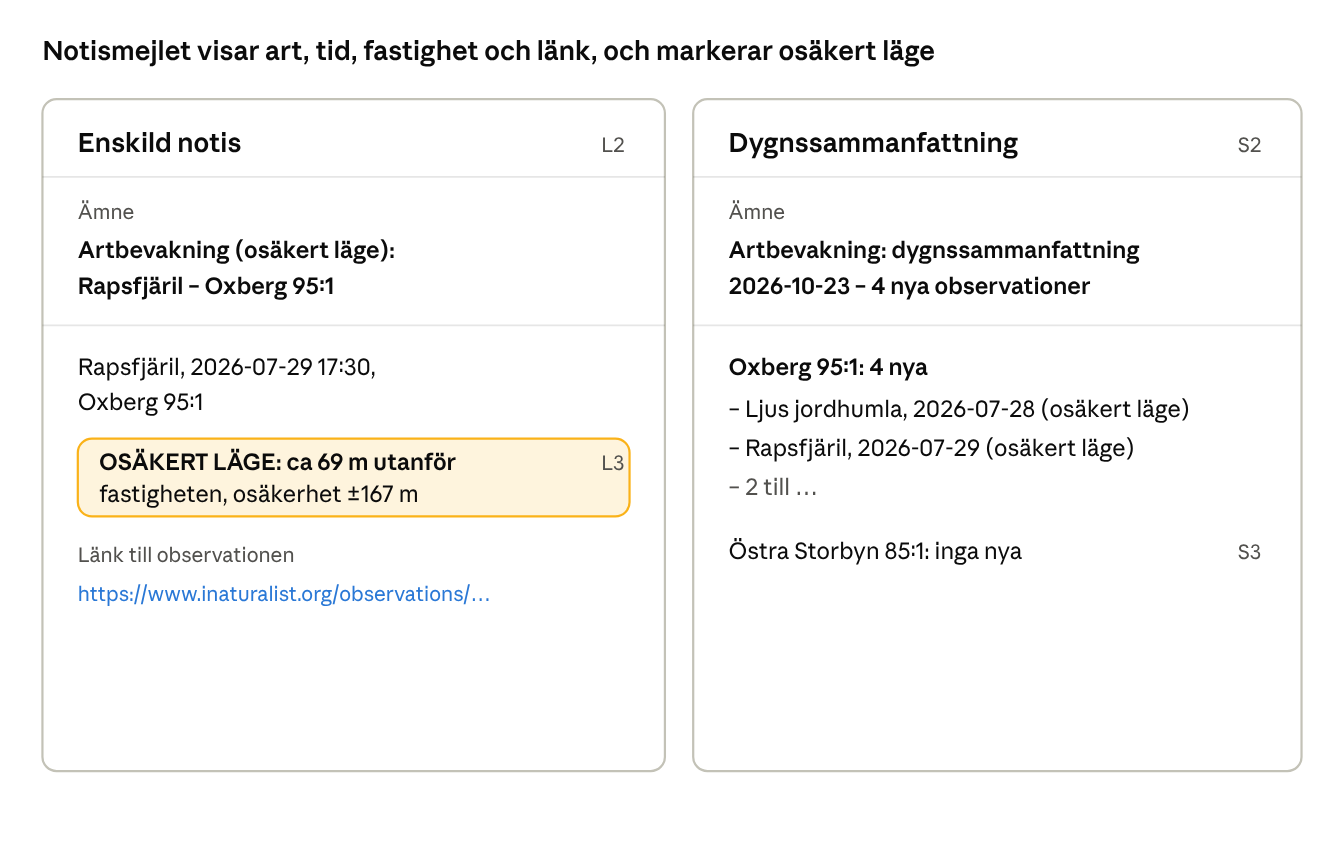
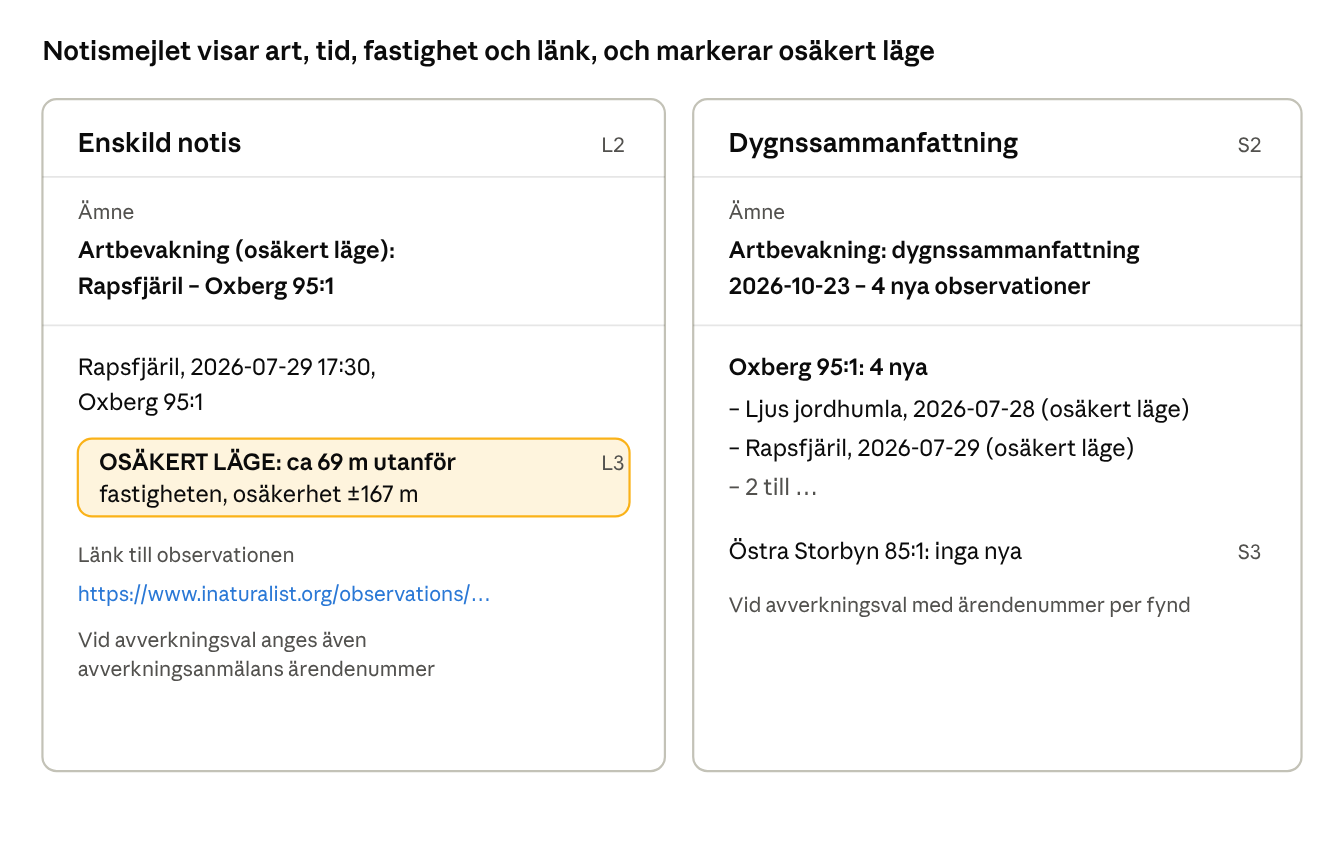
Lägg till erbjudande och förstagångsrabatt (B18–B21, A8–A10) och uppdatera skärmbilder

Changed region(s): [[0.0625, 0.7393, 0.3125, 0.8009], [0.5312, 0.7085, 0.875, 0.7393]]

diff --git a/artlarm/docs/PRD.md b/artlarm/docs/PRD.md
@@ -145,6 +145,9 @@ En administratör hanterar rabattkoder och grundpris; kundens sida av rabattkode
 | A5 | Administratören ser en lista över alla rabattkoder med rabatt, nuvarande grundpris och historik över prisändringar (förslag). |
 | A6 | Vanliga kunder ska inte kunna nå administrationen, varken via gränssnittet eller API:t. |
 | A7 | Administratörer har skrivskyddad insäkt i en kunds bevakningar och notiser, bara i samband med ett supportärende, och varje uppslag loggas (vem, vad, när). De kan inte ändra kundens bevakningar eller se lösenord. Integritetspolicyn anger insäkten. |
+| A8 | En administratör ska kunna skapa, ändra och avsluta ett erbjudande (namn, procent, start och slut). Ett pågående erbjudande kan avslutas i förtid men inte ändras bakåt, och redan gjorda köp påverkas inte. Före aktivering visas en bekräftelse med procent och tid, och ändringen loggas (A1). |
+| A9 | En administratör ska kunna slå på och av förstagångsrabatten och ändra procenten. Ändringen gäller nya köp och loggas. |
+| A10 | Administratören ser en lista över erbjudanden (kommande, pågående och avslutade) och förstagångsrabattens nuvarande läge, med historik (vem, vad, när) och antal köp som fick varje rabatt (förslag). |
 
 ### 5.8 Vilka observationer man får notiser om
 
@@ -197,6 +200,10 @@ Kunden betalar 2 kr per hektar och dag för bevakad yta, i förskott, och priset
 | B15 | Blir totalen 0 kr (rabatt 100 %) aktiveras bevakningarna utan betalning hos Stripe (förslag). |
 | B16 | Ytan avrundas uppåt per bevakning, vid avverkningsval per rad, till närmaste 0,1 ha (aldrig nedåt) och priset räknas exakt i öre. Minsta belopp per köp är 200 kr, räknat på varukorgens fullpris före rabatt och exklusive moms; är fullpriset lägre debiteras 200 kr. |
 | B17 | Priset låses när kunden går till kassan. Varukorgen sparas 7 dagar; öppnas kassan igen räknas priset om. En betalning gäller hela varukorgen: antingen aktiveras alla bevakningar eller ingen. En misslyckad betalning lämnar varukorgen kvar. |
+| B18 | Ett tidsbegränsat erbjudande är en procentuell rabatt som gäller alla kunder automatiskt, utan kod, på hela varukorgen (alla rader, även kompletteringar och förlängningar). Det har namn, rabatt i procent (1–99), startdatum och slutdatum med klockslag i svensk tid. Vilket erbjudande som gäller avgörs när priset låses vid kassan (B17); en betalning som slutförs efter erbjudandets slut behåller rabatten om kassan öppnades under erbjudandet (kassans giltighet högst 24 timmar, förslag). Högst ett erbjudande får vara aktivt åt gången. |
+| B19 | Förstagångsrabatten är en procentuell rabatt (1–99) på ett organisationsnummers första genomförda köp. Den ges automatiskt i kassan och kan slås på och av, och procenten kan ändras, av en administratör. Ett köp räknas som första när betalningen genomförts; ett köp på 0 kr räknas inte. Rabatten följer organisationsnumret (B10) så att den inte tas flera gånger genom att skapa nya konton; eftersom numret bara formatkontrolleras i version 1 är skyddet begränsat. |
+| B20 | Ett köp får en enda rabatt: den som ger lägst pris av erbjudandet, förstagångsrabatten och rabattkoden. Rabatter kombineras inte (jfr B14). Anger kunden en rabattkod som ger mindre rabatt än den som redan gäller visas ett meddelande och den bättre rabatten behålls. |
+| B21 | Gällande erbjudande (namn, procent och slutdatum) visas på sidan Ny bevakning och i varukorgen, och den rabatt som används visas på en egen rad med belopp före moms och nytt totalbelopp. Rabattens namn och procent sparas på köpet och skrivs på fakturan och kvittot (B7, B14). Rabatten räknas på varukorgens belopp före moms; beloppstaket (B11) och minsta beloppet (B16) räknas på fullpriset före rabatt. |
 
 **Räkneexempel (förslag på beräkning, belopp utan moms):**
 
@@ -309,6 +316,7 @@ Kraven "så snart" (L1) och daglig sammanfattning kl 09:00 (S2) blir mätbara me
 | B17, H7, D11, A7 | En misslyckad betalning aktiverar ingen bevakning och lämnar varukorgen kvar. En utgången bevakning kan inte tas bort och döljs efter 12 månader. Ett källavbrott över 24 timmar ger ett mejl om försenade notiser. Ett administratörsuppslag av en kunds bevakning loggas. |
 | D12–D15 | Med ett kommando startar hela tjänsten lokalt, och ett simulerat köp av en bevakning ger en aktiv bevakning, en faktura och ett mejl i mejlfångaren. En misslyckad simulerad betalning aktiverar ingenting. Skarpa Stripe-nycklar tillsammans med simulerad betalning stoppar starten. |
 | P17, P18 | Med två avverkningsanmälningar med olika perioder ger ett fynd inom den ena radens yta men utanför dess period ingen notis, och ett fynd inom en annan rads period ger notis med rätt ärendenummer. Priset och fakturan har en rad per anmälan, även när ytorna överlappar. En utgången rad bevakas inte längre medan övriga rader fortsätter, och bevakningen visas som delvis utgången. |
+| B18–B21, A8–A10 | Med ett erbjudande på 20 % till ett visst klockslag får ett köp i kassan före klockslaget 20 % rabatt och ett köp efter det ingen. En kassa som öppnats före sluttiden behåller rabatten vid betalning efter sluttiden, inom kassans giltighet. En kund med ett nytt organisationsnummer får förstagångsrabatten på sitt första betalda köp men inte på det andra. Med erbjudande 20 %, förstagångsrabatt 30 % och rabattkod 10 % får köpet bara 30 % rabatt, och en rabattkod som ger mindre rabatt än den som gäller ger ett meddelande. Fakturan visar rabattens namn och procent. |
 
 ## 11. Milstolpar och leveransplan
 
@@ -374,6 +382,9 @@ Alla frågor har besvarats av beställaren och är inlagda i kraven.
 | 42. Egen period per avverkningsanmälan | Vid avverkningsval har varje vald anmälan egen period, yta och eget pris; bevakningen är kvar som enhet för köp och borttagning. | P3–P5, P7, P8, P11, P13–P15, P17, B2, B7, B9, B16, H3–H5 |
 | 43. Överlapp prissätts var för sig | Anmälningar som överlappar i yta och tid prissätts var och en för sig, utan sammanslagning. | P18 |
 | 44. Hel bevakning tas bort | Enskilda rader kan inte tas bort i version 1; bara hela bevakningen. | H1 |
+| 45. Erbjudande för alla | Tidsbegränsad procentuell rabatt utan kod som gäller alla kunder automatiskt, skapad av en administratör; högst ett aktivt åt gången. | B18, A8, A10 |
+| 46. Förstagångsrabatt | Procentuell rabatt på ett organisationsnummers första genomförda köp, på och av och med ändringsbar procent. | B19, A9 |
+| 47. En rabatt per köp | Bara den rabatt som ger lägst pris gäller; erbjudande, förstagångsrabatt och rabattkod kombineras inte. | B20, B21 |
 
 **Kvarstående frågor**
 
@@ -390,6 +401,7 @@ Inga frågor återstår just nu. Nya frågor som uppstår under arbetet läggs t
 | Pris och yta stämmer inte (fråga 1–2) | Missnöjda kunder, tvister utan återbetalningsmöjlighet | Beslutat: ytan fryses vid köp och köp blockeras vid 0 ha; visa areal och pris tydligt innan betalning |
 | Juridik kring ångerrätt och ingen återbetalning | Villkoren kan underkännas mot konsumenter | Jurist gör genomgång innan lansering |
 | Prototypens delade databasanslutning och enprocessdesign | Dubbletter och tappade notiser vid flera instanser | PostgreSQL och en worker med lås (D2, D3) |
+| Rabatter urholkar intäkten | Ett erbjudande på 50 % kräver dubbelt så många köp för samma intäkt, och en felaktigt inställd procent ger förlust. | Procent högst 99, slutdatum obligatoriskt, bekräftelse före aktivering och loggning (A8). |
 
 ## 13. Skärmbildsförslag
 
@@ -405,13 +417,13 @@ Kontot skapas när e-post, lösenord och båda godkännandena finns (K1, K7, K8)
 
 ![Skärmbild 2: ny bevakning med pris](img/skarmbild-2-ny-bevakning.png)
 
-Fastigheter, valet "endast avverkningsanmälda ytor" per fastighet med en lista där avverkningsanmälningar kryssas i (P13), start- och slutdatum och pris för varje anmälan, förvalda enligt P14 (P17), bevakningsperiod per rad (med varning över 3 månader), kontots mottagaradress samlas på en sida, och priset visas innan varukorgen (P1–P7, M1). I bilden har rad 2 kortats och fått en kortare period än de andra, och priset räknas per rad. Valet av daglig sammanfattning görs för kontot (S1).
+Fastigheter, valet "endast avverkningsanmälda ytor" per fastighet med en lista där avverkningsanmälningar kryssas i (P13), start- och slutdatum och pris för varje anmälan, förvalda enligt P14 (P17), bevakningsperiod per rad (med varning över 3 månader), kontots mottagaradress samlas på en sida, och priset visas innan varukorgen (P1–P7, M1). I bilden har rad 2 kortats och fått en kortare period än de andra, och priset räknas per rad. Gällande erbjudande visas ovanför priset (B21). Valet av daglig sammanfattning görs för kontot (S1).
 
 ### 13.3 Varukorg och betalning
 
 ![Skärmbild 3: varukorg och betalning](img/skarmbild-3-varukorg.png)
 
-Två bevakningar betalas med en betalning (B4, B5). Oxberg visas uppdelad i en rad per avverkningsanmälan med egen period och eget belopp (P17, B7). Kunden informeras om att ingen återbetalning sker vid borttagning innan betalning (B8); att kryssa i rutan är ett förslag på hur det kan lösas. Köparen intygar också näringsverksamhet och anger organisationsnummer (B10).
+Två bevakningar betalas med en betalning (B4, B5). Oxberg visas uppdelad i en rad per avverkningsanmälan med egen period och eget belopp (P17, B7). Ett pågående erbjudande dras av på en egen rad, tillsammans med en ruta för rabattkod; bara den bästa rabatten gäller (B18, B20, B21). Kunden informeras om att ingen återbetalning sker vid borttagning innan betalning (B8); att kryssa i rutan är ett förslag på hur det kan lösas. Köparen intygar också näringsverksamhet och anger organisationsnummer (B10).
 
 ### 13.4 Mina bevakningar
 
@@ -583,7 +595,7 @@ Avgifterna i tabellen nedan räknas på beloppet inklusive 25 % moms, med faktur
 | --- | --- | --- | --- | --- |
 | 200 kr (minsta belopp) | 250 kr | 7,80 kr | 3,9 % | 11,05 kr |
 | 301,60 kr (en bevakning med tre rader, skärmbild 2) | 377,00 kr | 10,85 kr | 3,6 % | 15,75 kr |
-| 1 049,60 kr (varukorgen, skärmbild 3) | 1 312,00 kr | 33,29 kr | 3,2 % | 50,34 kr |
+| 1 049,60 kr (varukorgen före rabatt, skärmbild 3) | 1 312,00 kr | 33,29 kr | 3,2 % | 50,34 kr |
 | 5 000 kr (beloppstaket) | 6 250 kr | 151,80 kr | 3,0 % | 233,05 kr |
 
 ### 17.3 Övriga tjänster

diff --git a/artlarm/CONTEXT.md b/artlarm/CONTEXT.md
@@ -30,6 +30,14 @@ _Avoid_: Maxbelopp, spärr
 En kod med en procentuell rabatt på varukorgens belopp.
 _Avoid_: Kupong, kampanjkod
 
+**Erbjudande**:
+En tidsbegränsad procentuell rabatt som gäller alla kunder automatiskt, utan kod, och som en administratör skapar med start och slut.
+_Avoid_: Kampanj, utförsäljning
+
+**Förstagångsrabatt**:
+En procentuell rabatt på ett organisationsnummers första genomförda köp.
+_Avoid_: Välkomstrabatt, nykundsrabatt
+
 ### Bevakningen
 
 **Bevakning**:
